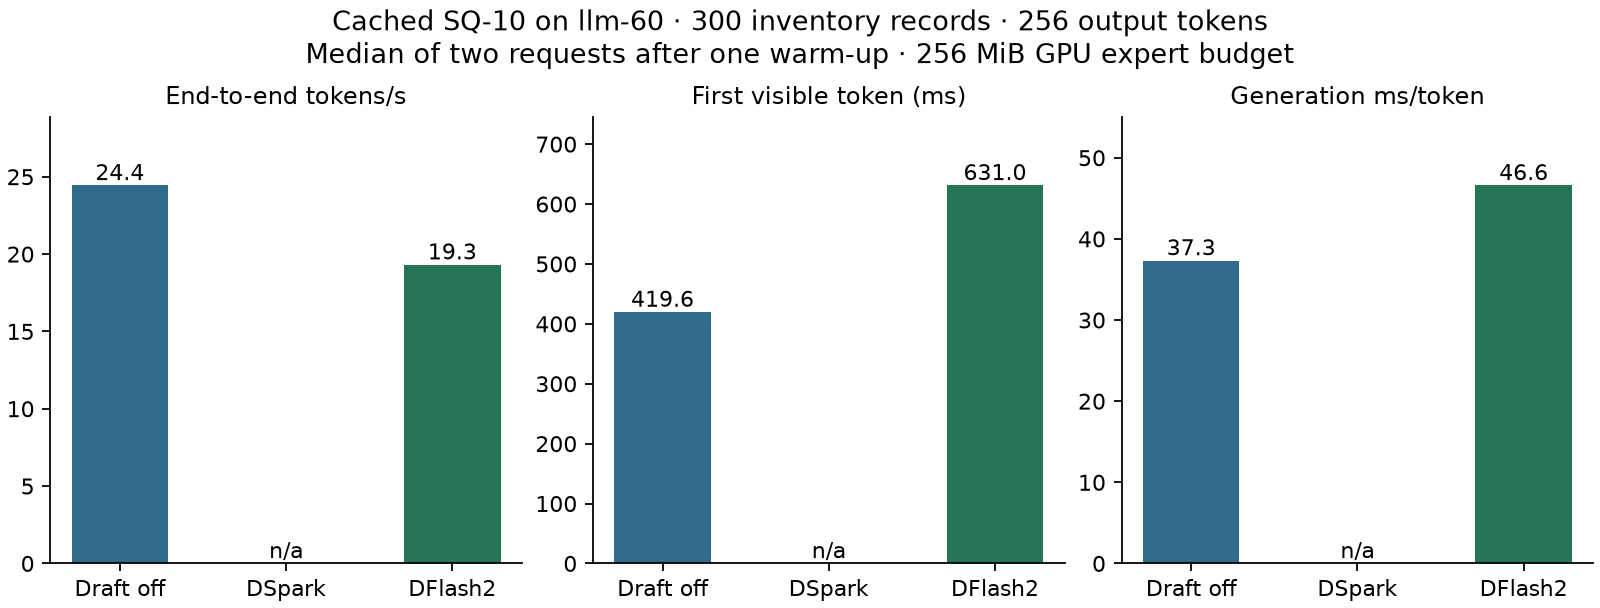
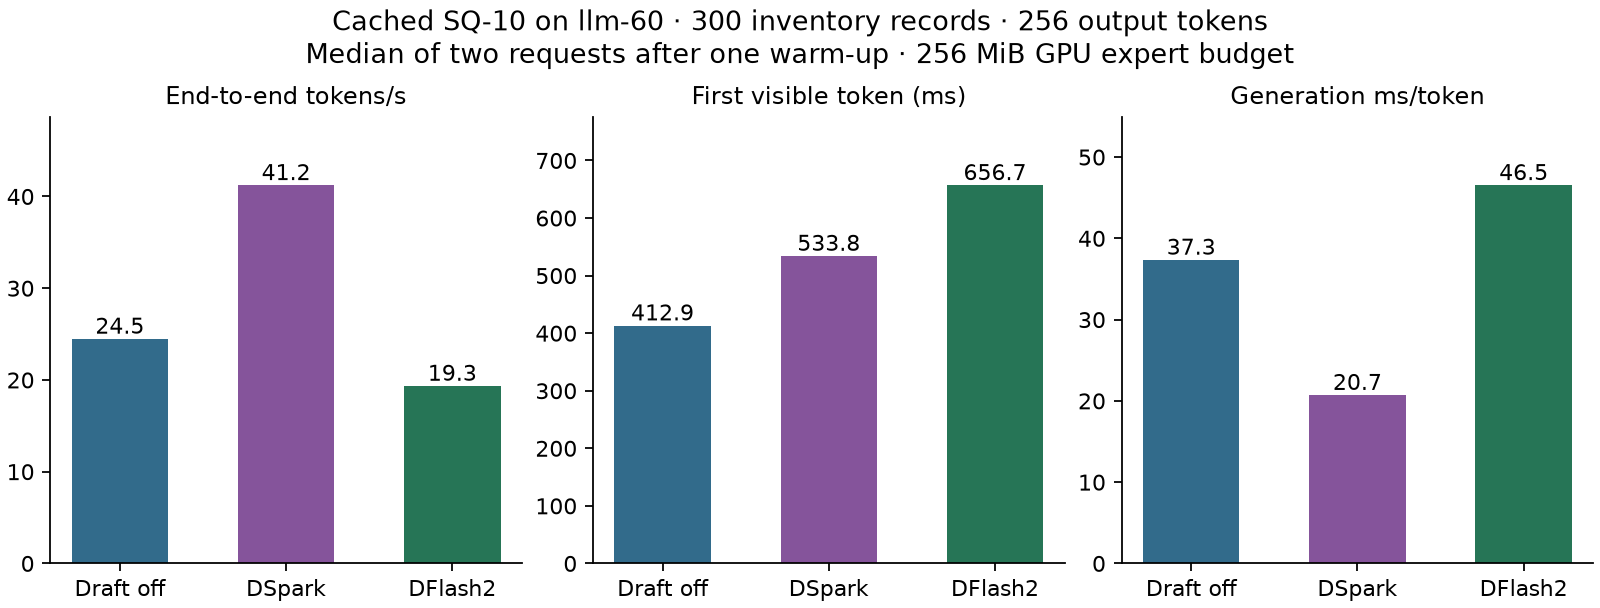
Measure all three SQ-10 HTTP modes on the same checkpoint-capable bridge

diff --git a/README.md b/README.md
@@ -482,10 +482,12 @@ identity. On llm-60 a streamed Linux command answer and a request resumed
 after its first token produced identical output IDs, including the native stop.
 
 On a 300-record inventory prompt with 256 output tokens, Cached produced
-identical token IDs in six SQ-10 HTTP requests on llm-60. Timings include
+identical token IDs in nine SQ-10 HTTP requests on llm-60. Timings include
 branch creation for end-to-end throughput and first visible token. Output
-generation uses the server timer. DSpark returned HTTP 409 during root
-checkpoint creation on this bridge, so its matched rate is unavailable.
+generation uses the server timer. All three modes used the same bridge linked
+against the DSpark-checkpoint-patched CUDA core, with a 256 MiB GPU expert
+budget and GPU execution for cold experts. The initial bridge rejected DSpark
+root checkpoint creation.
 
 ![Cached HTTP drafting results](docs/benchmarks/inkling/draft-http-matched.png)
 
